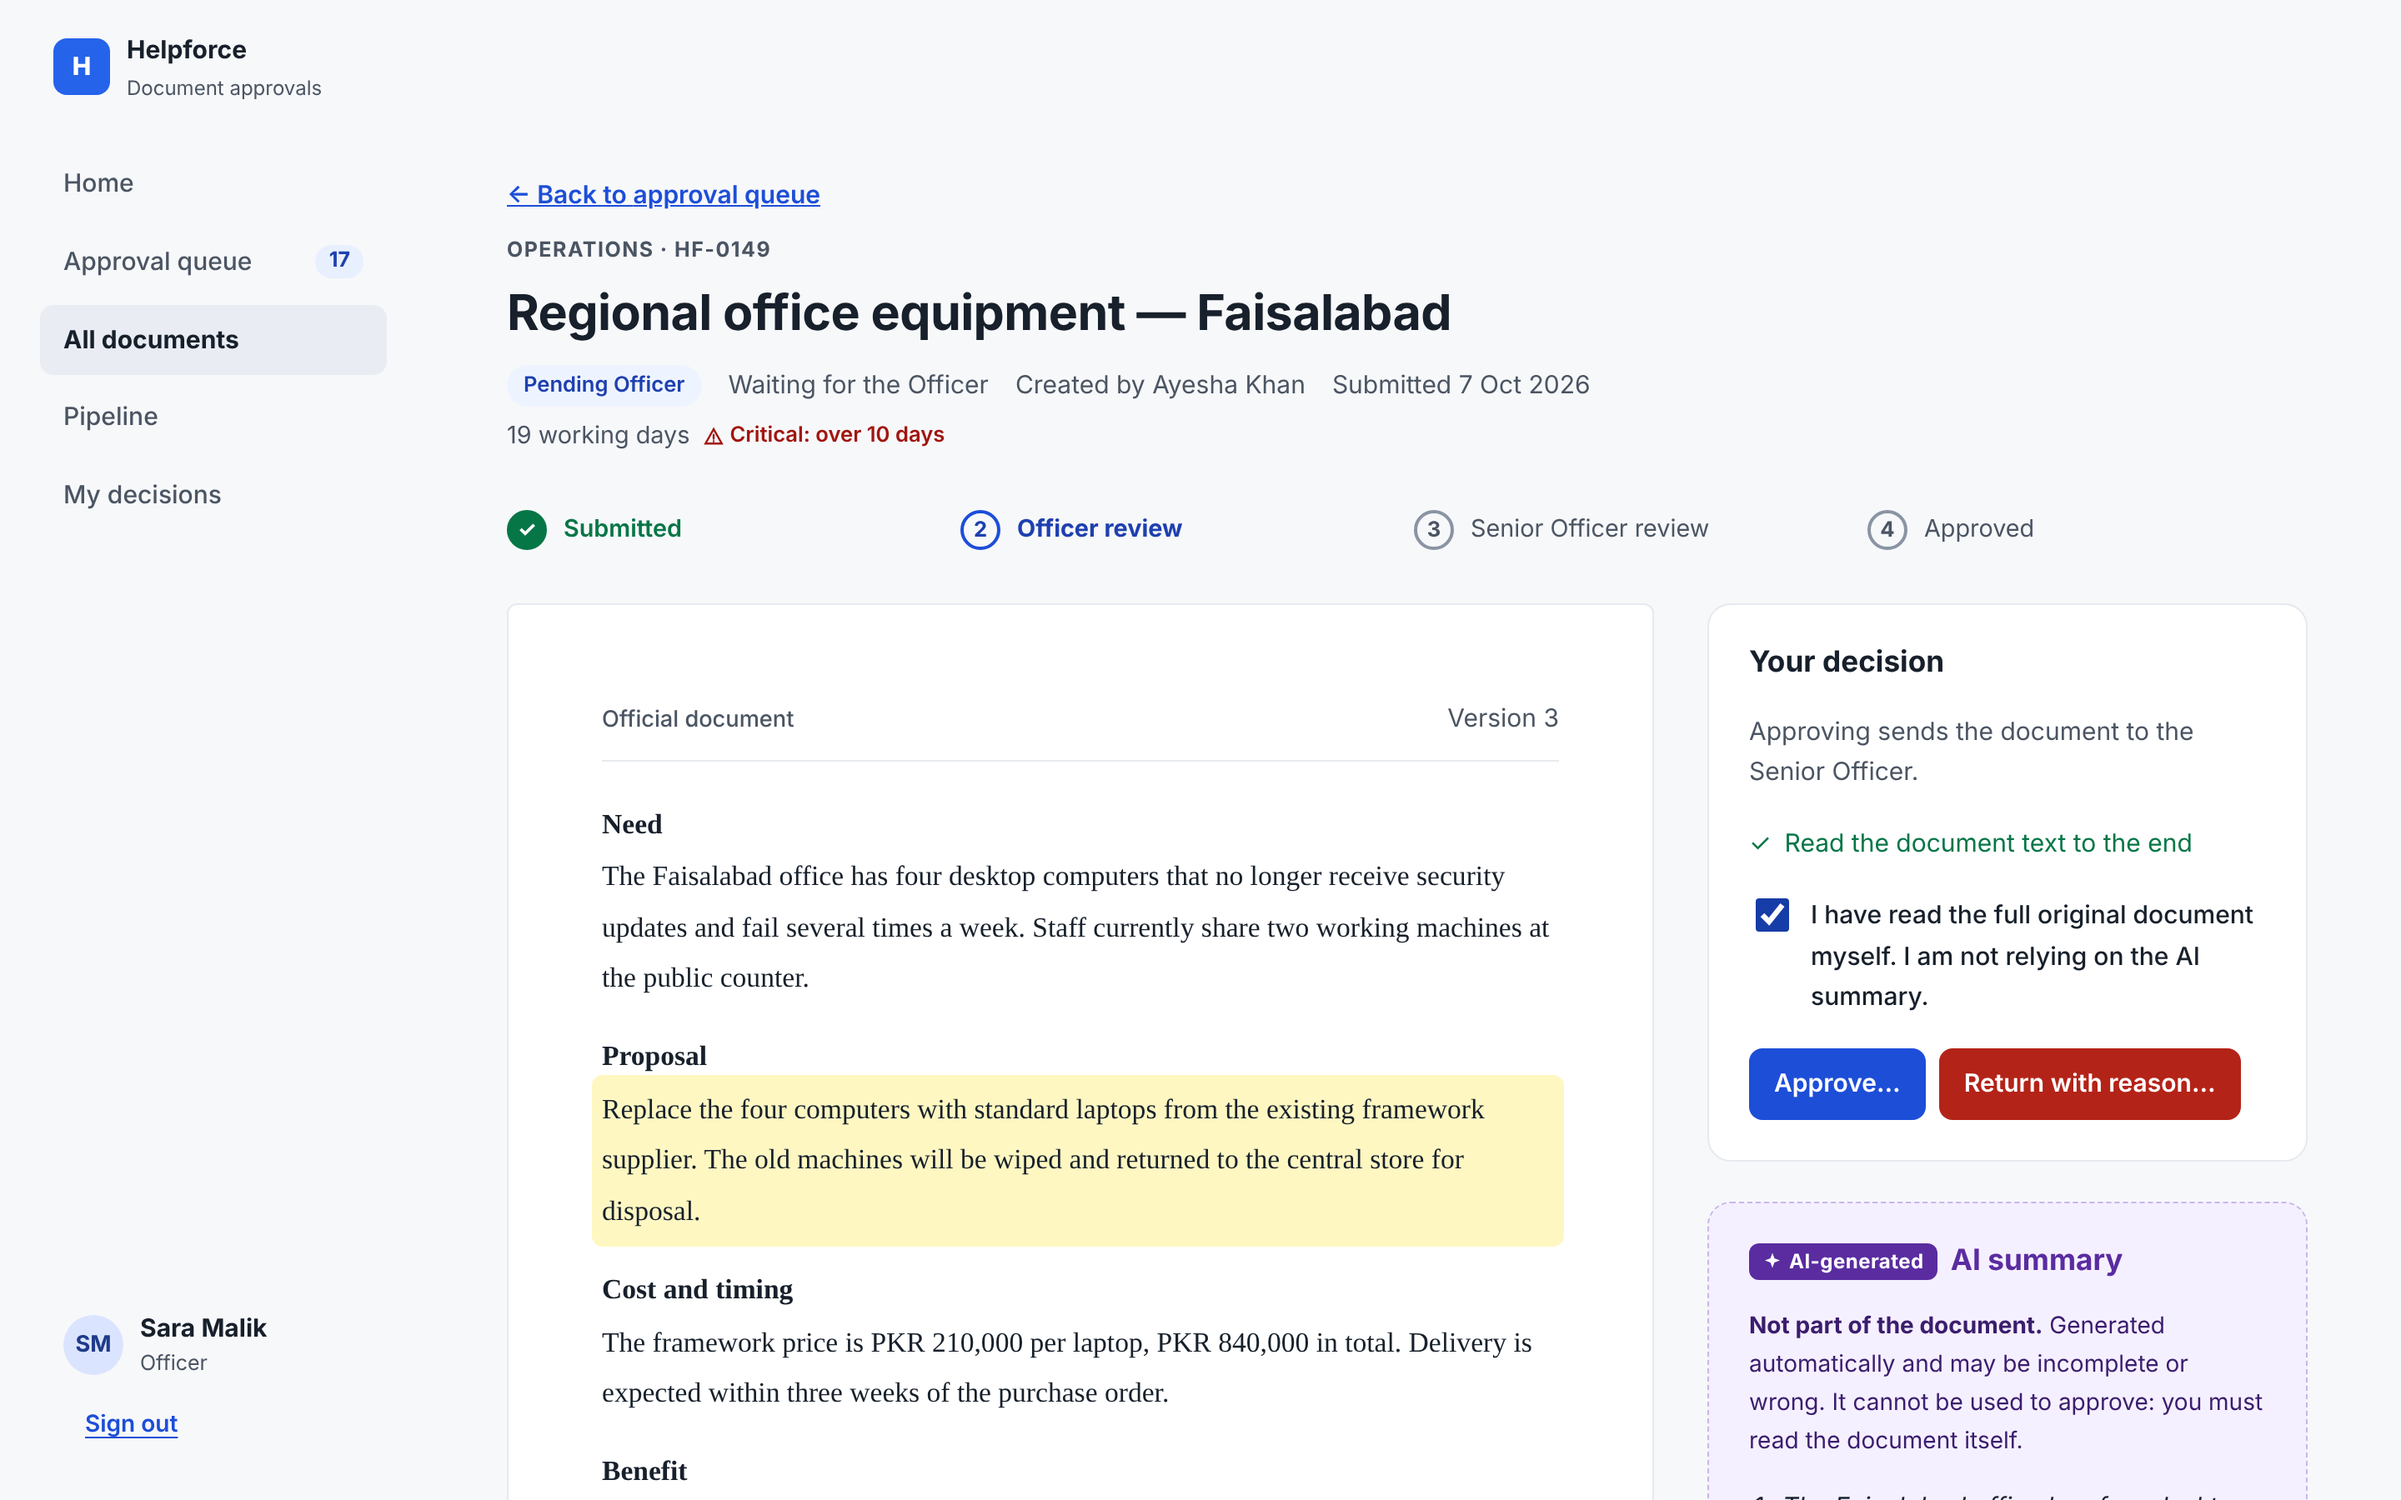
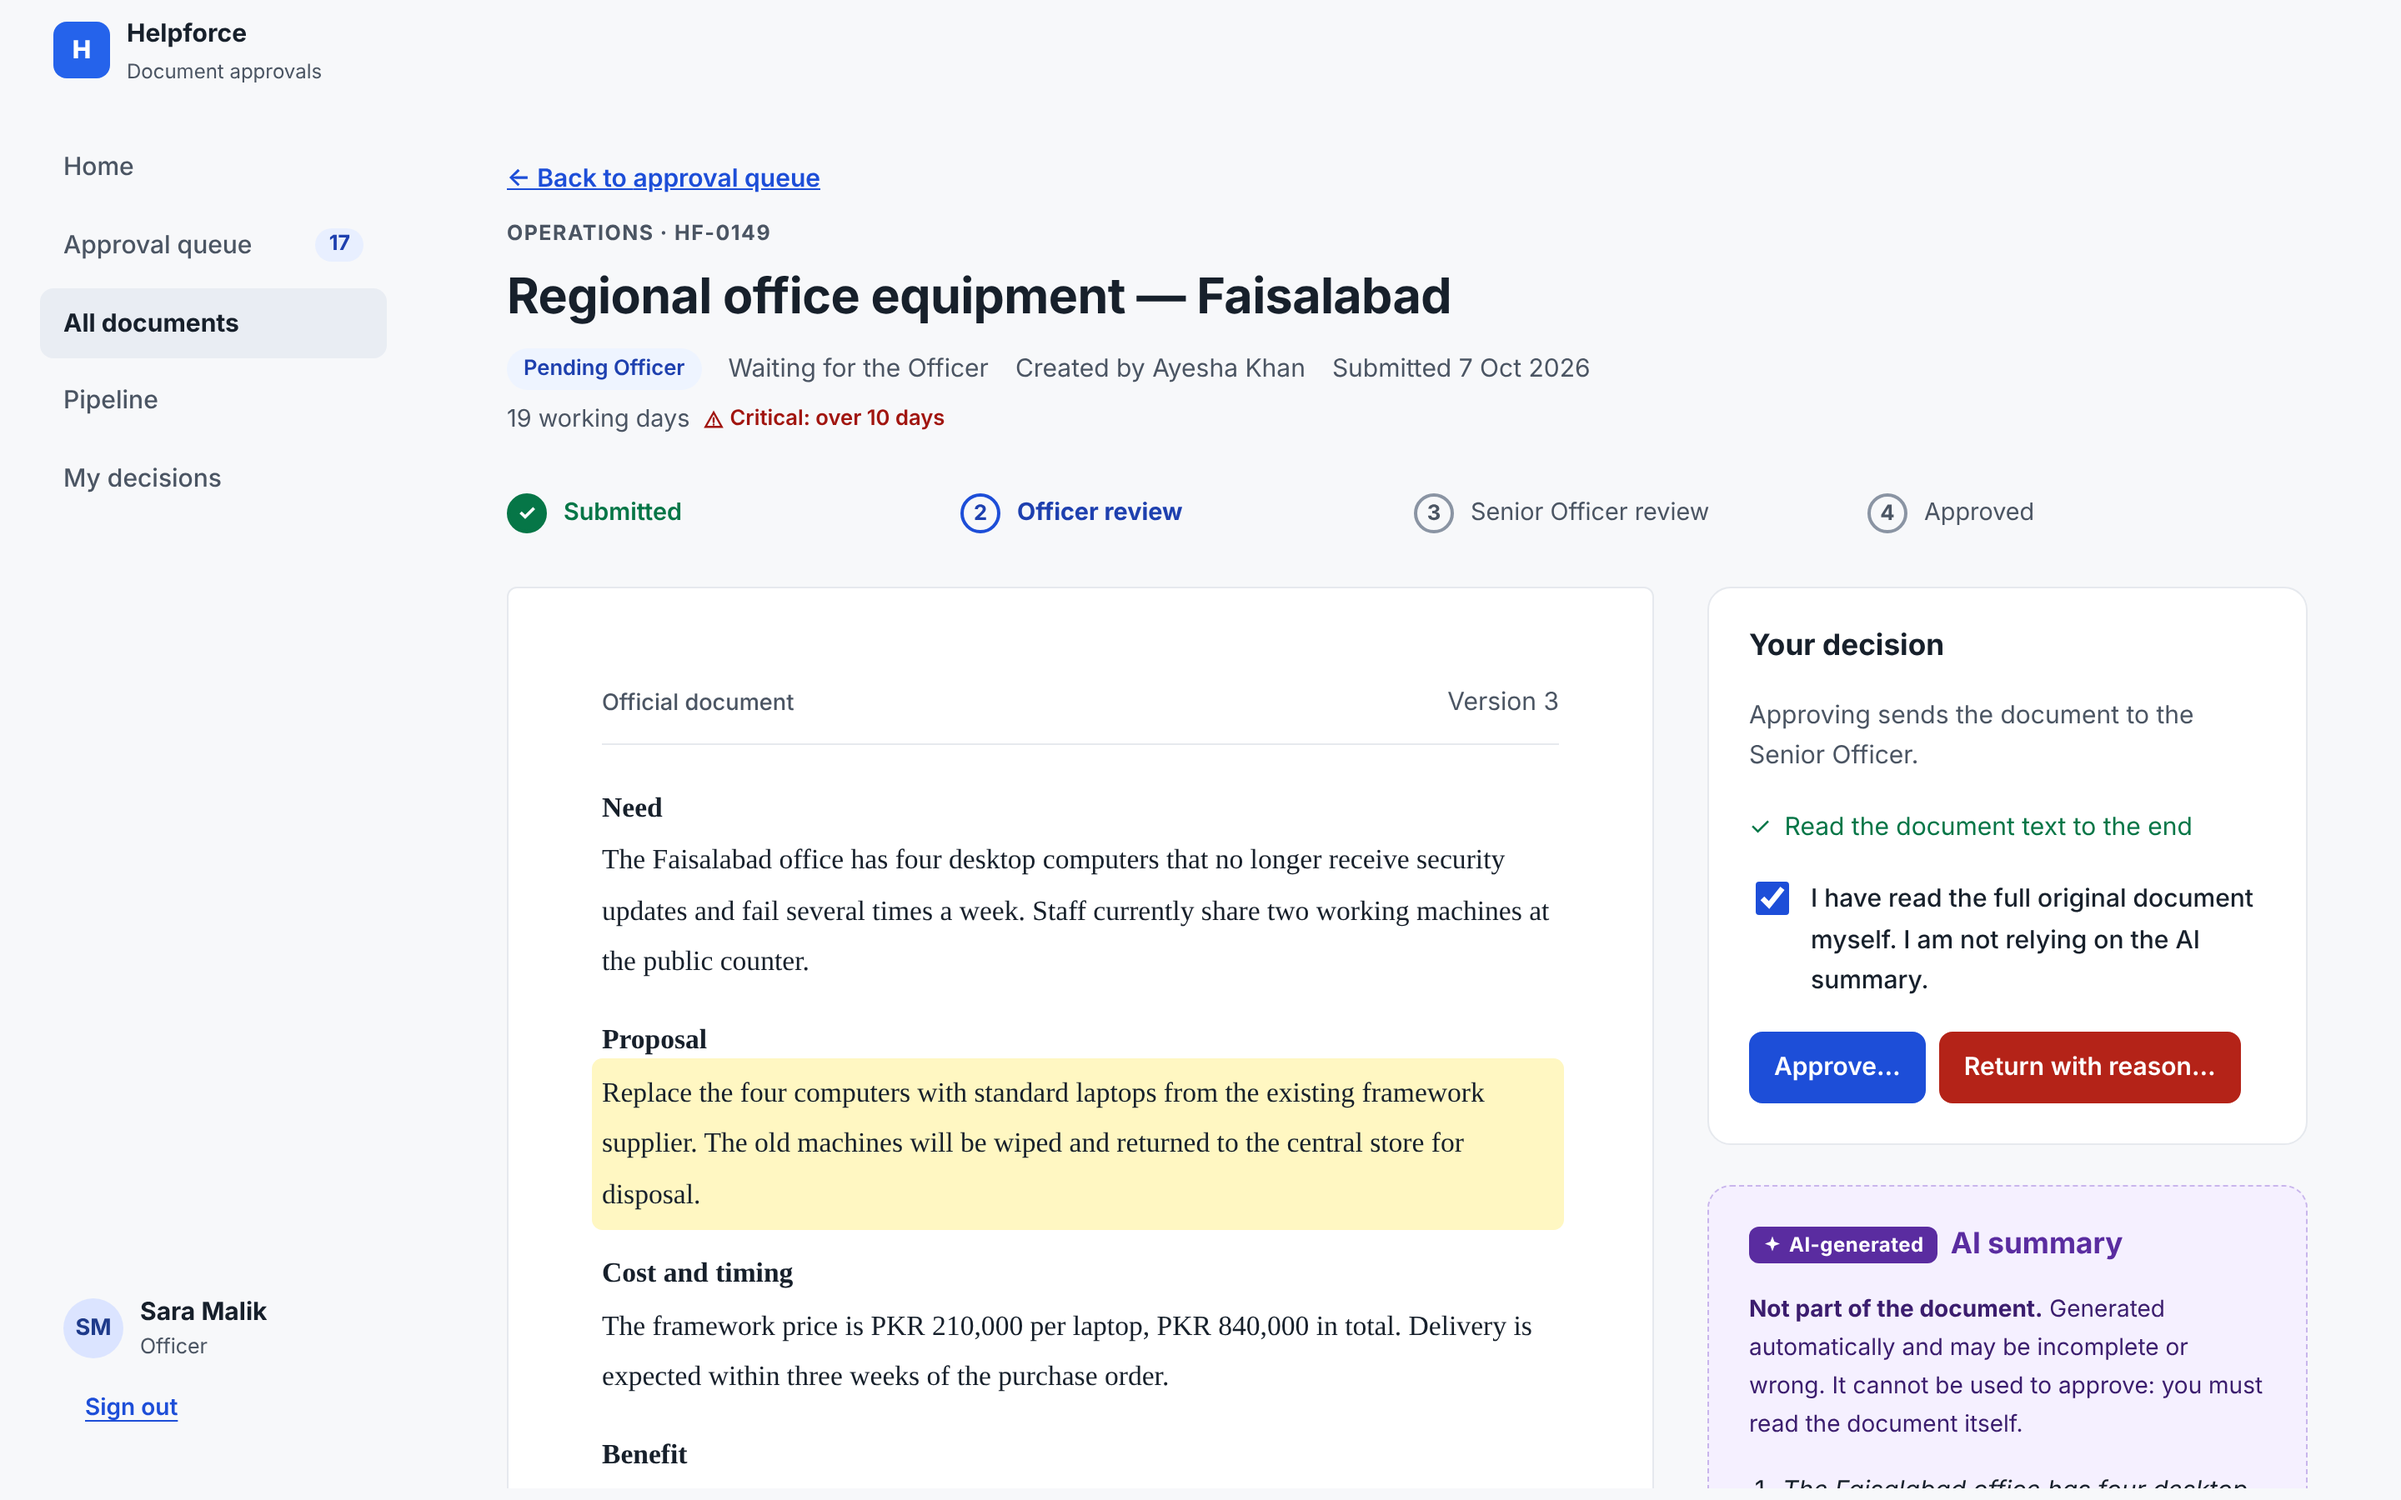
Fix issues found walking the full approval lifecycle
- New screens open at the top, so the submit confirmation is visible
- 'Review next document' falls back to the whole queue when filters leave
  nothing, instead of wrongly saying the queue is empty
- No focus ring on the decision summary after a mouse click
- Plain wording for very short waits and gaps ('Under 1 working day',
  'less than a minute')
- Refresh screenshots; the audit shot now shows a full lifecycle

diff --git a/components/document-view.tsx b/components/document-view.tsx
@@ -13,7 +13,7 @@ import {
   type Document,
 } from "@/lib/domain";
 import { api, ApiFailure } from "@/lib/client/api";
-import { applyQueue } from "@/lib/queue";
+import { applyQueue, defaultFilters } from "@/lib/queue";
 import PdfPreview from "./pdf-preview";
 import { useApp } from "./app-provider";
 import AuditTimeline from "./audit-timeline";
@@ -180,10 +180,11 @@ export default function DocumentView({ id }: { id: string }) {
   function decided(updated: Document, decision: "approve" | "reject") {
     setLoad({ phase: "ready", doc: updated });
     void refreshDocuments();
-    const next = applyQueue(
-      documents.filter((d) => d.id !== updated.id && needsAction(user, d)),
-      { ...filters, priority: "all" },
-    ).items[0];
+    // Next item in the reviewer's current view; if their filters leave nothing, the next in the whole queue.
+    const remaining = documents.filter((d) => d.id !== updated.id && needsAction(user, d));
+    const next =
+      applyQueue(remaining, { ...filters, priority: "all" }).items[0] ??
+      applyQueue(remaining, { ...defaultFilters, sort: filters.sort }).items[0];
     setOutcome({
       text:
         decision === "reject"

diff --git a/tests/domain.test.ts b/tests/domain.test.ts
@@ -5,6 +5,7 @@ import {
   checkVersion,
   describeEvent,
   documentErrors,
+  elapsed,
   fileError,
   handledBy,
   needsAction,
@@ -116,6 +117,16 @@ describe("AI summary points", () => {
       { paragraph: 1, section: "Purpose", text: "The office needs four new laptops" },
       { paragraph: 3, section: "Cost", text: "The total cost is PKR 840,000 for all four" },
     ]);
+  });
+});
+
+describe("time between steps", () => {
+  it("says how long passed in plain words", () => {
+    const at = (min: number) => new Date(Date.UTC(2026, 10, 2, 9, min)).toISOString();
+    expect(elapsed(at(0), at(0))).toBe("less than a minute");
+    expect(elapsed(at(0), at(1))).toBe("1 minute");
+    expect(elapsed(at(0), at(45))).toBe("45 minutes");
+    expect(elapsed(at(0), new Date(Date.UTC(2026, 10, 5, 9)).toISOString())).toBe("3 days");
   });
 });
 

diff --git a/lib/domain.ts b/lib/domain.ts
@@ -331,7 +331,8 @@ export const isAiEvent = (event: Pick<Audit, "action">) =>
 /** Human duration such as "3 days" or "5 hours". */
 export function elapsed(fromIso: string, toIso: string) {
   const minutes = Math.max(0, Math.round((Date.parse(toIso) - Date.parse(fromIso)) / 60000));
-  if (minutes < 60) return minutes <= 1 ? "1 minute" : `${minutes} minutes`;
+  if (minutes < 1) return "less than a minute";
+  if (minutes < 60) return minutes === 1 ? "1 minute" : `${minutes} minutes`;
   const hours = Math.round(minutes / 60);
   if (hours < 24) return hours === 1 ? "1 hour" : `${hours} hours`;
   const days = Math.round(hours / 24);

diff --git a/components/badges.tsx b/components/badges.tsx
@@ -19,9 +19,7 @@ export function WaitingTime({ doc }: { doc: Pick<Document, "waitingSince" | "sta
   const level = priorityOf(doc);
   return (
     <span className="waiting">
-      <span>
-        {days} working {days === 1 ? "day" : "days"}
-      </span>
+      <span>{days === 0 ? "Under 1 working day" : `${days} working ${days === 1 ? "day" : "days"}`}</span>
       {isOverdue(doc) && (
         <span className={`flag flag-${level}`}>
           <WarningIcon />

diff --git a/components/page-header.tsx b/components/page-header.tsx
@@ -22,6 +22,8 @@ export default function PageHeader({
 }) {
   const heading = useRef<HTMLHeadingElement>(null);
   useEffect(() => {
+    // A new screen starts at the top, with focus on its heading.
+    window.scrollTo(0, 0);
     heading.current?.focus({ preventScroll: true });
   }, [title]);
   return (

diff --git a/app/globals.css b/app/globals.css
@@ -1199,8 +1199,8 @@ textarea {
   border-color: transparent;
   background: var(--success-soft);
 }
-.outcome:focus {
-  outline: 3px solid var(--focus);
+.outcome:focus:not(:focus-visible) {
+  outline: none;
 }
 
 /* AI summary: purple, dashed, clearly not the document. */

diff --git a/README.md b/README.md
@@ -2,7 +2,7 @@
 
 Clerk → Officer → Senior Officer approvals with a local mock API (Next.js 16, React 19, TypeScript). Fully offline: system fonts, bundled PDF.js worker, no external requests (verified with all non-localhost traffic blocked).
 
-**Run** (Node 20.9+): `npm install && npm run dev`, then open http://localhost:3000 and pick an account: Ayesha Khan or Bilal Ahmed (Clerks), Sara Malik (Officer), Omar Farooq (Senior Officer). **Tests:** `npm test` runs 47 Vitest tests (rules, queue, seed, API errors, UI in jsdom). `npm run test:e2e` runs 5 Playwright tests on a production build (approval, 409 conflict, 403, failed upload, expired session, axe-core and no external requests; first run `npx playwright install chromium`). Lint and build pass. Data is in memory and resets on restart. Screenshots are at the end.
+**Run** (Node 20.9+): `npm install && npm run dev`, then open http://localhost:3000 and pick an account: Ayesha Khan or Bilal Ahmed (Clerks), Sara Malik (Officer), Omar Farooq (Senior Officer). **Tests:** `npm test` runs 48 Vitest tests (rules, queue, seed, API errors, UI in jsdom). `npm run test:e2e` runs 5 Playwright tests on a production build (approval, 409 conflict, 403, failed upload, expired session, axe-core and no external requests; first run `npx playwright install chromium`). Lint and build pass. Data is in memory and resets on restart. Screenshots are at the end.
 
 ## Design decisions
 - **Server enforces everything.** `lib/api-handler.ts` checks session, role, ownership, status and the version the user saw; hiding buttons is only a convenience. Rules are pure functions in `lib/domain.ts`.
@@ -44,7 +44,7 @@ Persist data (SQLite); run both test suites in CI; public holidays in working da
 
 ![Confirm return dialog](screenshots/3-confirm-return.png)
 
-**Audit history:** plain sentences with roles, timing, status changes and reasons.
+**Audit history:** one document's full life: created, returned by the Officer, resubmitted, returned by the Senior Officer, resubmitted, then final approval, with roles, timing, status changes and reasons.
 
 ![Audit history](screenshots/4-audit-history.png)
 
